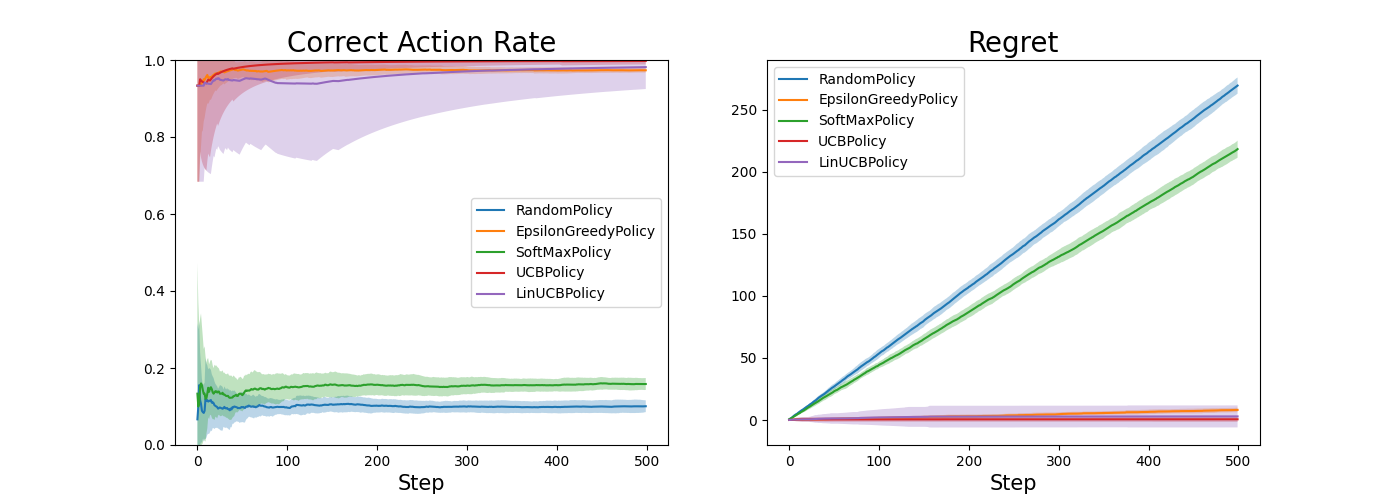
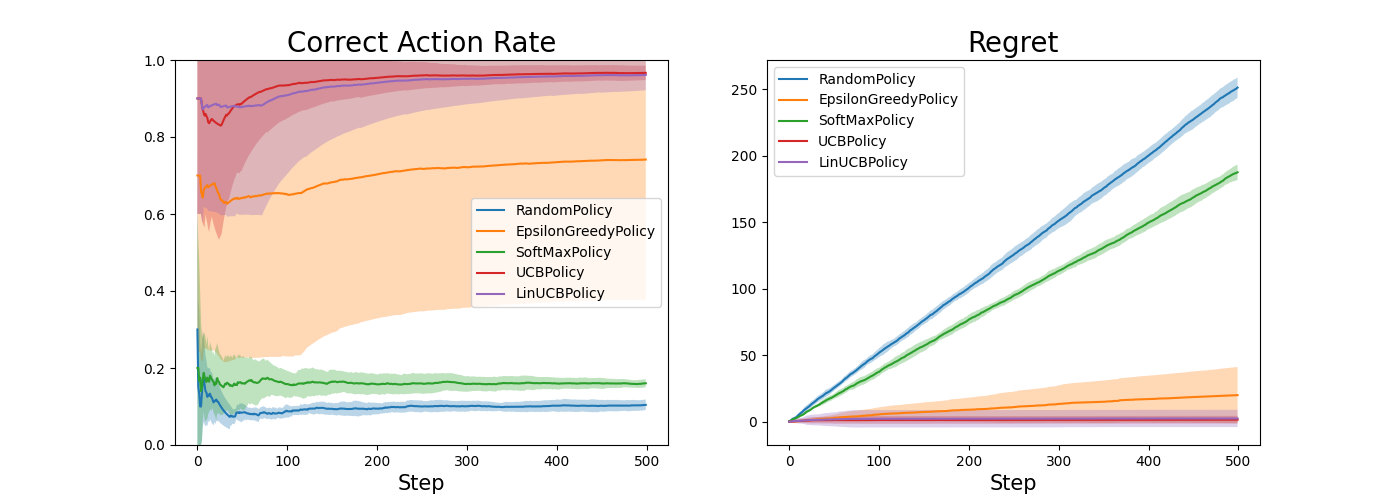
再実験

diff --git a/bin/run.py b/bin/run.py
@@ -20,7 +20,6 @@ class ExpResult:
 
 
 def set_up(cfg: Config) -> Tuple[BanditEnv, List[AbstractPolicy]]:
-    set_seed(cfg.seed)
     action_context = generate_action_context(cfg.n_actions, cfg.dim_action_context)
     env = BanditEnv(cfg.n_actions, cfg.dim_context, action_context, cfg.seed)
     policies = [
@@ -123,7 +122,8 @@ def main(exp_name: str):
     # experiment
     env, policies = set_up(cfg)
     results = []
-    for _ in tqdm(range(cfg.n_trials), desc="Run Experiment..."):
+    for i in tqdm(range(cfg.n_trials), desc="Run Experiment..."):
+        set_seed(cfg.seed + i)
         result = run_simulation(env, policies, cfg.bs, cfg.step)
         results.append(result)
 
